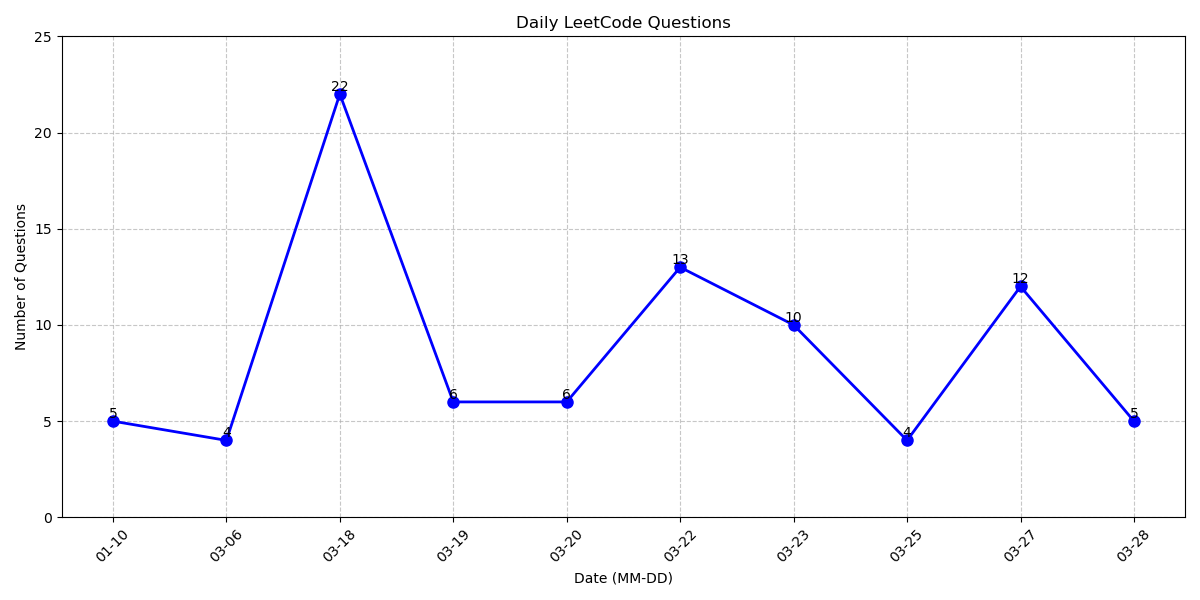
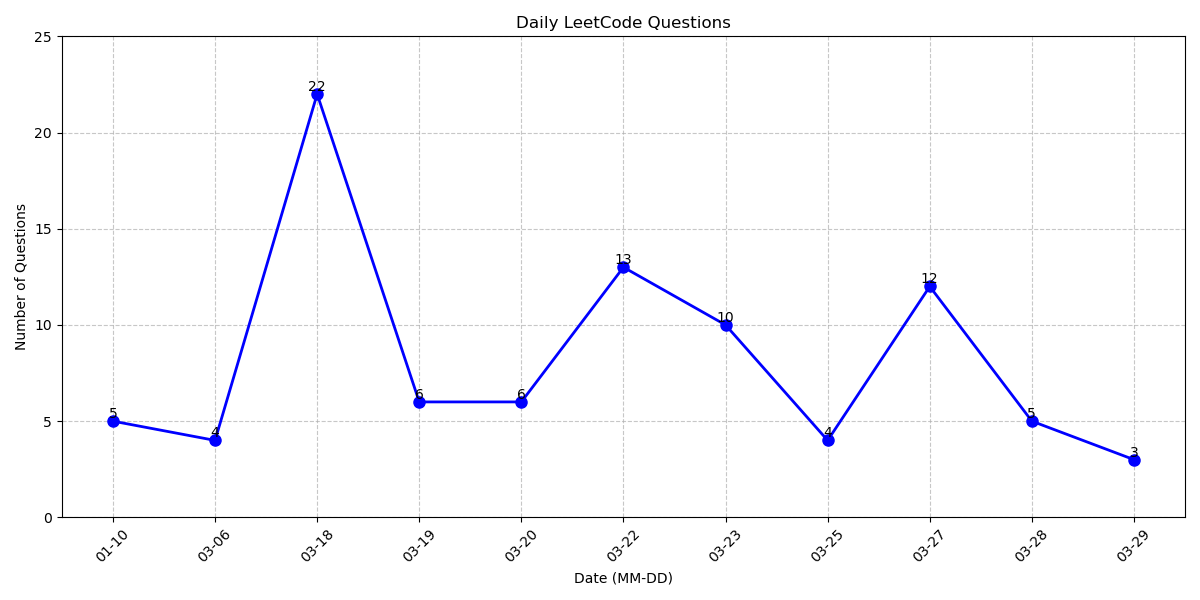
3/29 pratice

diff --git a/Recursive/combinationSum2.cpp b/Recursive/combinationSum2.cpp
@@ -1,0 +1,33 @@
+/*
+
+
+*/
+
+class Solution {
+  public:
+	vector<vector<int>> combinationSum2(vector<int> &candidates, int target) {
+
+		sort(candidates.begin(), candidates.end());
+		vector<int> combination;
+		recursive(candidates, combination, target, 0);
+		return res;
+	}
+
+  private:
+	vector<vector<int>> res;
+	void recursive(vector<int> &candidates, vector<int> &combination,
+	               int target, int i) {
+		if (target <= 0 || i == candidates.size()) {
+			if (target == 0)
+				res.push_back(combination);
+			return;
+		}
+		int num = candidates[i];
+		combination.push_back(num);
+		recursive(candidates, combination, target - num, i + 1);
+		combination.pop_back();
+		while (num == candidates[i + 1])
+			++i;
+		recursive(candidates, combination, target, i + 1);
+	}
+};

diff --git a/BinarySearch/RotateSortArrSearch.cpp b/BinarySearch/RotateSortArrSearch.cpp
@@ -1,0 +1,41 @@
+/*
+    1. 先找最小的值(pivot)
+    2. 判斷我們要找的值是否大於最後一個
+        1. 是, 必在pivot 左邊
+        2. 不是, 必在pivot右邊
+*/
+class Solution {
+  public:
+	int search(vector<int> &nums, int target) {
+		int l = 0;
+		int r = nums.size() - 1;
+
+		// find min first
+		while (l <= r) {
+			int m = (l + r) / 2;
+			if (nums[m] > nums.back())
+				l = m + 1;
+			else {
+				r = m - 1;
+			}
+		}
+		int pivot = l;
+		l = 0;
+		r = nums.size() - 1;
+		if (target <= nums[r]) {
+			l = pivot;
+		} else {
+			r = pivot;
+		}
+		while (l <= r) {
+			int m = (l + r) / 2;
+			if (nums[m] < target)
+				l = m + 1;
+			else if (nums[m] > target)
+				r = m - 1;
+			else
+				return m;
+		}
+		return -1;
+	}
+};

diff --git a/BinarySearch/findMinRotatArr.cpp b/BinarySearch/findMinRotatArr.cpp
@@ -16,3 +16,4 @@ class Solution {
 		}
 		return nums[left];
 	}
+};

diff --git a/README.md b/README.md
@@ -31,6 +31,7 @@
 - 📝 findMinRotatArr
 - 📝 EatBanans
 - 📝 Search2D
+- 📝 RotateSortArrSearch
 - 📝 BinarySearch
 
 ## Graph
@@ -40,6 +41,7 @@
 
 ## Recursive
 - 📝 Subsets
+- 📝 combinationSum2
 - 📝 combinationSum
 
 ## SlidingWindow
@@ -110,7 +112,7 @@
 - 📝 minCostClimb
 
 ## Statistics
-Current total questions: 75
+Current total questions: 77
 
 <img src="chart.png" alt="questions bar chart" width="500">
 
